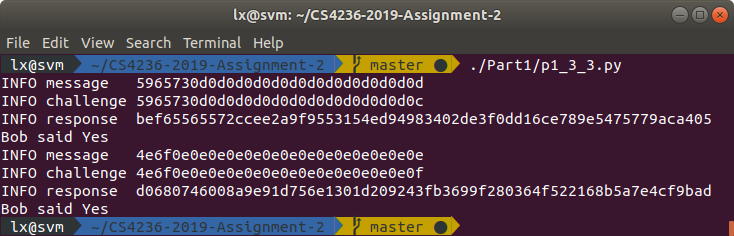
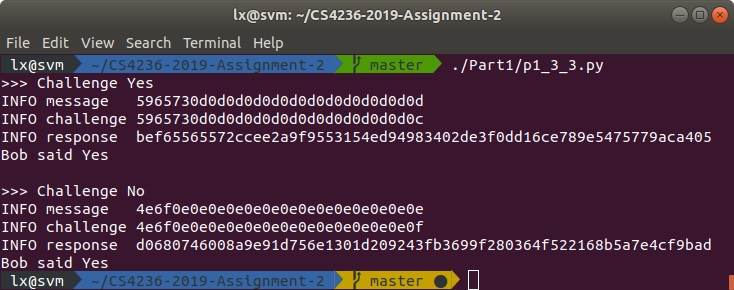
p133

diff --git a/Part1/p1_3_3.py b/Part1/p1_3_3.py
@@ -62,7 +62,7 @@ if __name__ == "__main__":
 
     oracle = aes_cbc_oracle(KEY)
 
-    # Challenge Yes
+    print(">>> Challenge Yes")
     padded_yes = pad_block(BLOCK_SIZE, b'Yes')
     yes_response = challenge(oracle, padded_yes, IV1, IV2)
     if yes_response[:BLOCK_SIZE] == CIP:
@@ -70,7 +70,8 @@ if __name__ == "__main__":
     else:
         print("Bob said No")
 
-    # Challenge No
+    print("")
+    print(">>> Challenge No")
     padded_no = pad_block(BLOCK_SIZE, b'No')
     no_response = challenge(oracle, padded_no, IV1, IV2)
 
